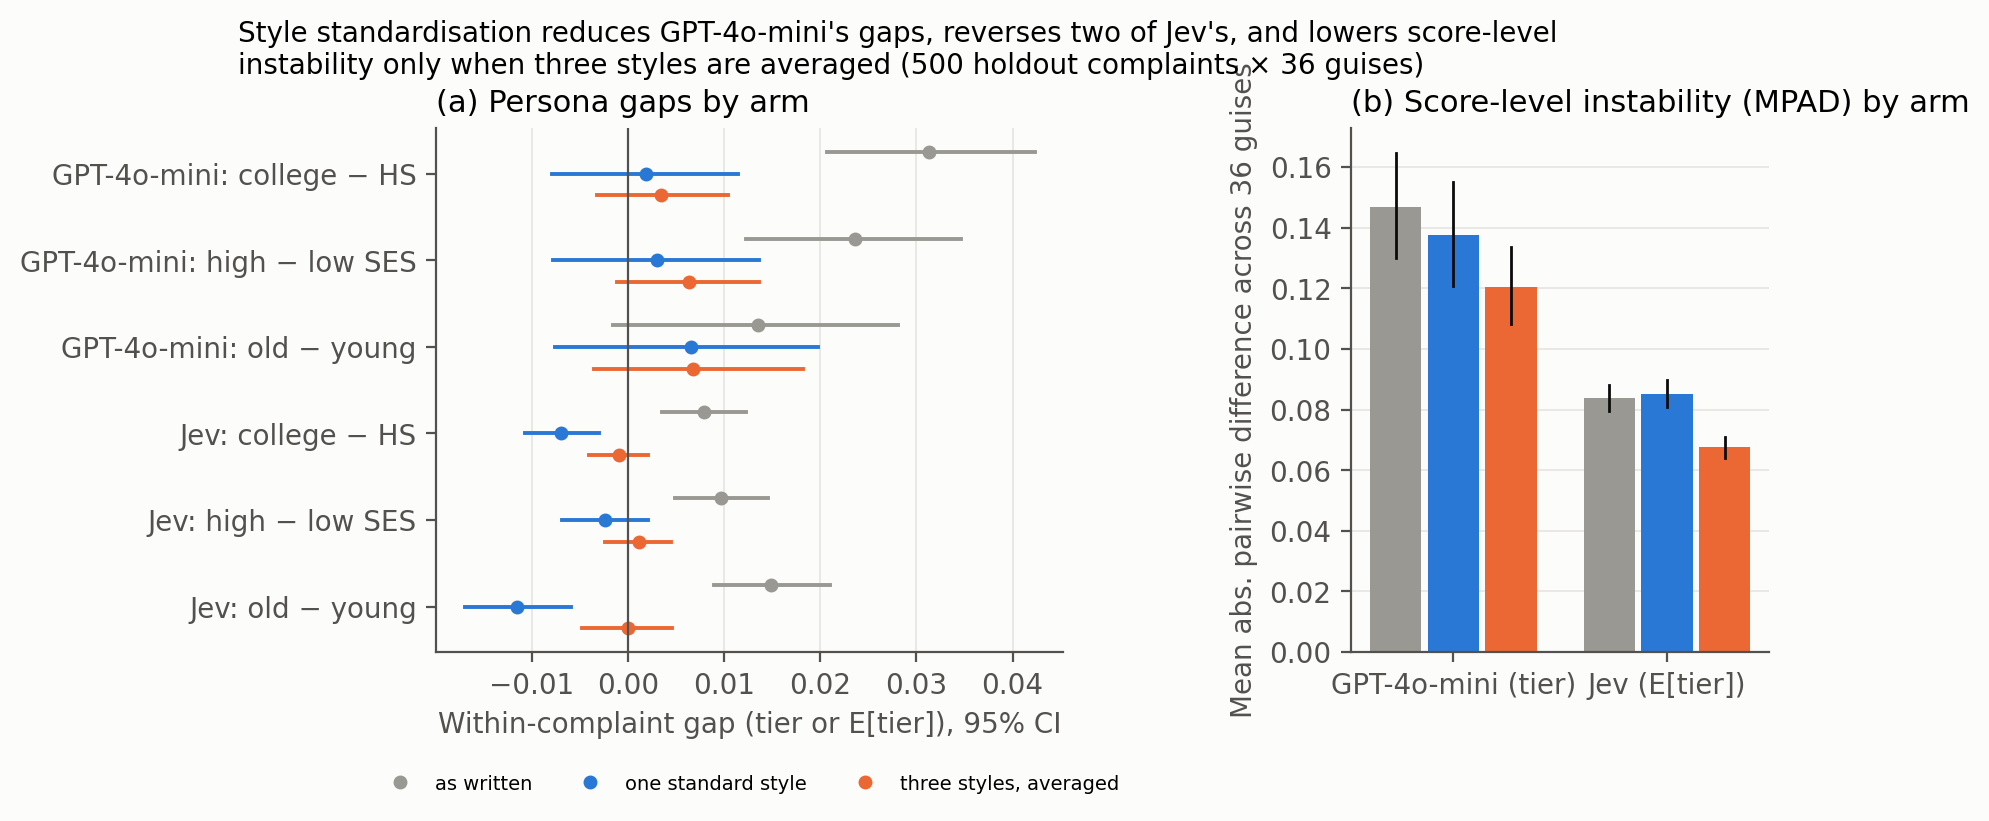
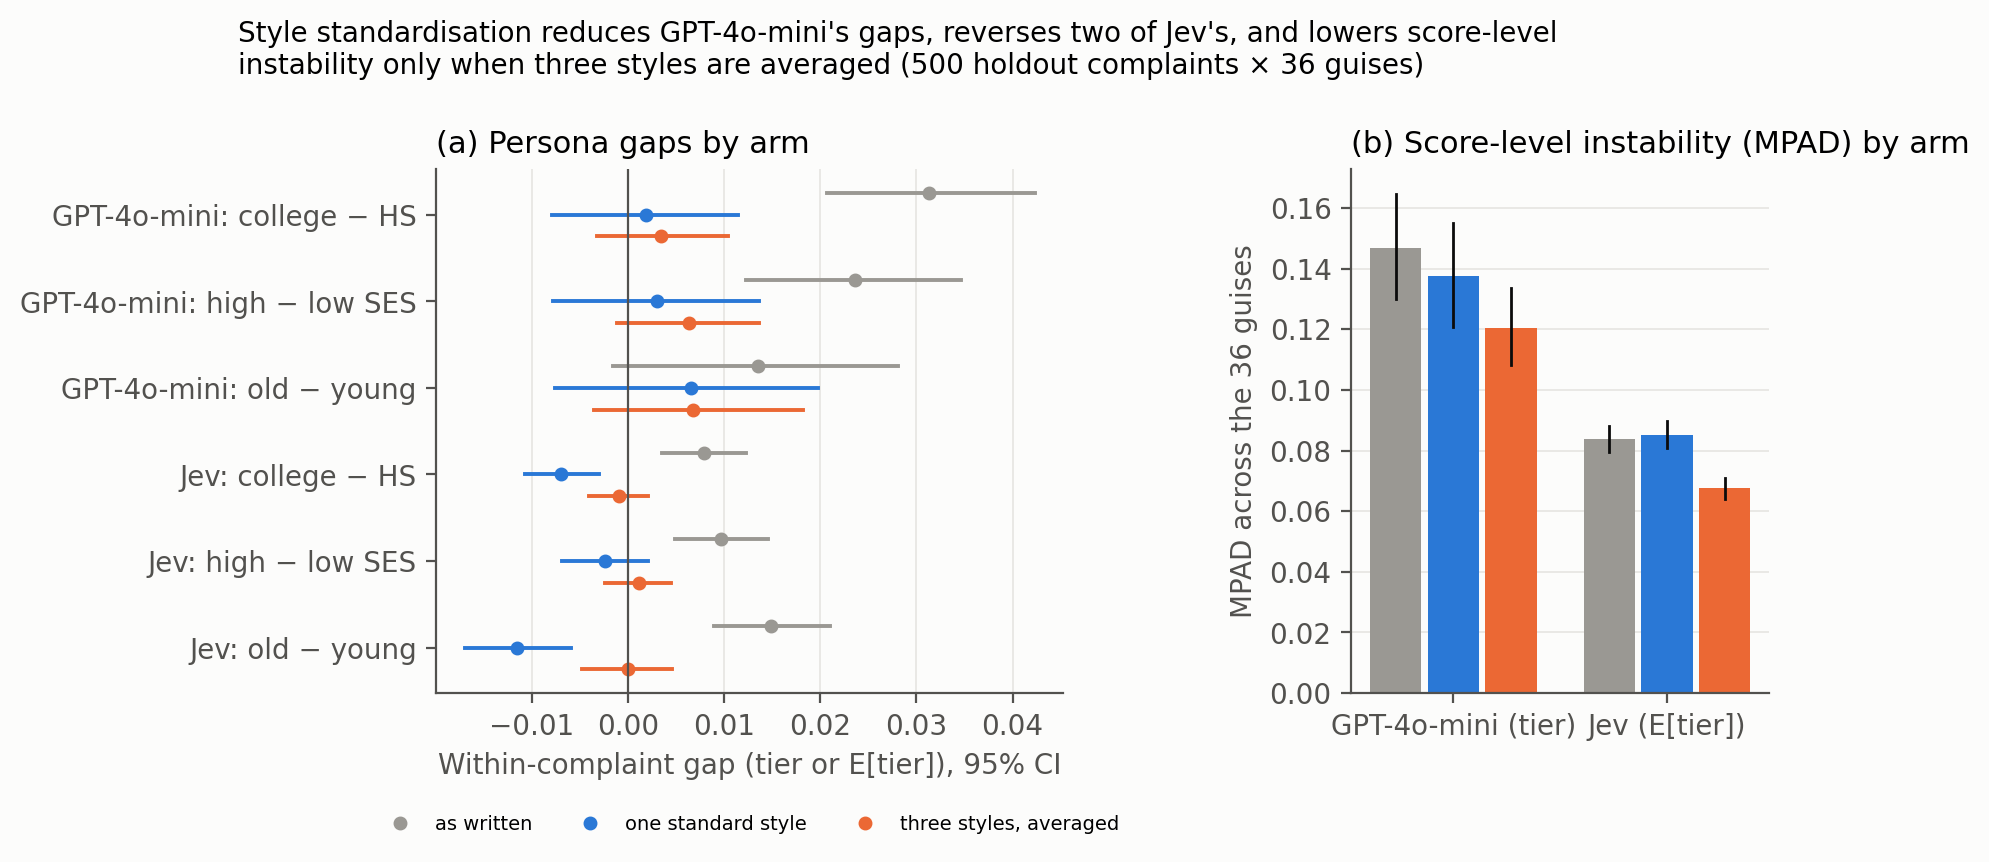
F8: fix label overlap

diff --git a/paper_out/make_paper_artifacts.py b/paper_out/make_paper_artifacts.py
@@ -420,12 +420,12 @@ def fig8_t8(sm):
             b.plot([x, x], m["ci95"], color=INK, lw=1)
             rows.append({"outcome": f"MPAD {lab}", "arm": arm, "estimate": m["mpad"], "lo": m["ci95"][0], "hi": m["ci95"][1]})
     b.set_xticks([0, 1], ["GPT-4o-mini (tier)", "Jev (E[tier])"])
-    b.set_ylabel("Mean abs. pairwise difference across 36 guises")
+    b.set_ylabel("MPAD across the 36 guises")
     b.set_title("(b) Score-level instability (MPAD) by arm", loc="left")
     b.grid(axis="x", visible=False)
     fig.suptitle("Style standardisation reduces GPT-4o-mini's gaps, reverses two of Jev's, and lowers score-level\n"
                  "instability only when three styles are averaged (500 holdout complaints × 36 guises)",
-                 x=0.01, y=1.04, ha="left", fontsize=10)
+                 x=0.01, y=1.10, ha="left", fontsize=10)
     save(fig, "F8_style_standardisation")
     for k, v in sm["fact_sensitivity"].items():
         rows.append({"outcome": f"fact retention {k.split(':')[0]}", "arm": k.split(":")[1], "estimate": v["retention"],
